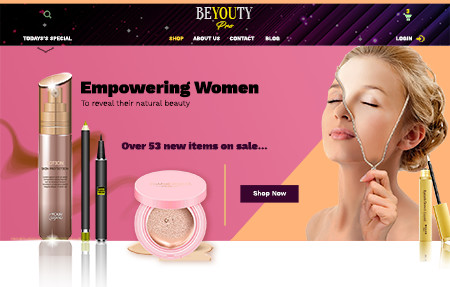
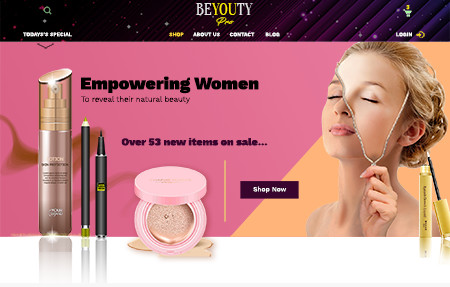
cy home 0

diff --git a/assets/css/style.css b/assets/css/style.css
@@ -151,13 +151,13 @@ header{
 .videoDiv{
   overflow: hidden;
   margin-top: 5.7vw;
-  margin-left: 5.7105vw;
+  margin-left: 5vw;
   position: relative;
   padding-top: 0.1px;
   height: 36.6vw;
   width: 88.579vw;
   /* border: 1.85vw solid rgb(255,255,255,0.4); */
-  /* box-shadow: 0px 4.44vw 11.11vw -2.59vw rgba(0,0,0,0.55); */
+  box-shadow: 0px 4.44vw 11.11vw -2.59vw rgba(0,0,0,0.55);
 }
 video{
   object-fit: initial;
@@ -266,7 +266,7 @@ video{
   width: 4vw;
   margin-top: 0.25vw;
   margin-left: 2.5vw;
-  margin-right: 4.888vw;
+  margin-right: 8vw;
   /* height: 2vw; */
 }
 .burgerMenu:hover{
@@ -465,6 +465,9 @@ main{
   overflow: hidden;
   width: 33.33%;
   height: 21.2vw;
+}
+.imgBox:hover{
+  cursor: pointer;
 }
 .imgBox::before{
   transition: 1s;

diff --git a/index.html b/index.html
@@ -49,6 +49,7 @@
 
       <div class="links">
         <a href="https://nikoladim123.github.io/cySolidBlog/">Blog</a>
+        <a href="#">Help</a>
         <a href="#">Client Feedback</a>
         <a href="#">Photography</a>
         <div class="burgerMenu">
